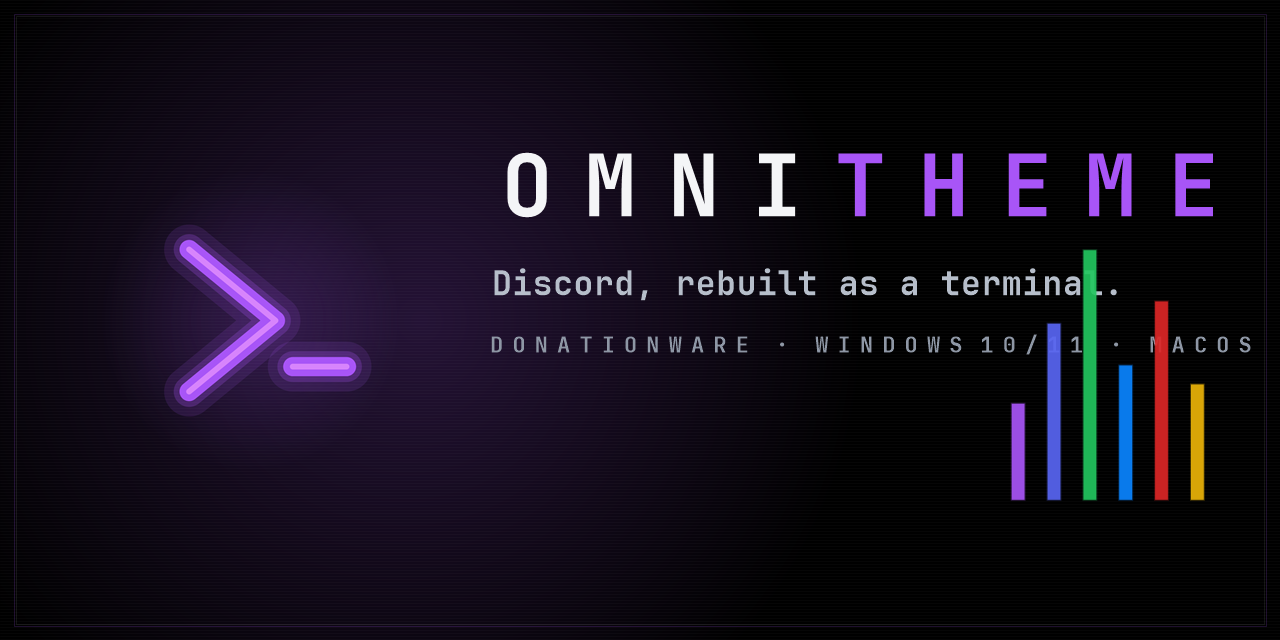
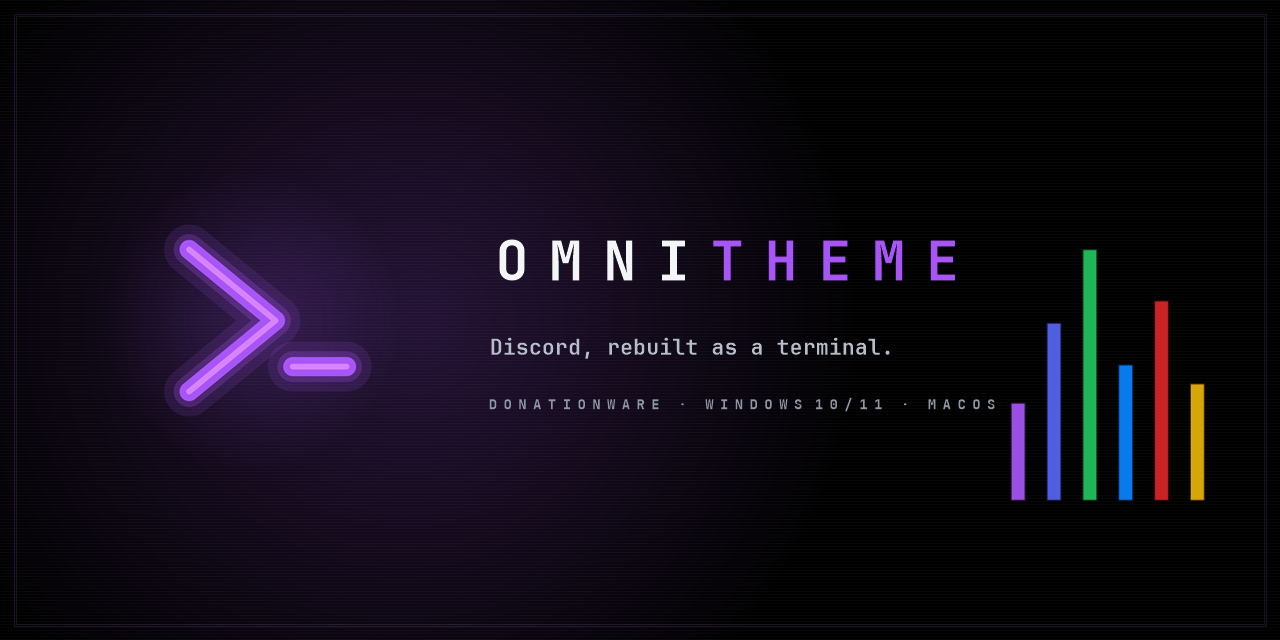
Fix wordmark/tagline spacing and overlap; add badge-style quick-nav
Layout fix: was measuring line gaps off the font-size number instead of
the actual rendered text height, so lines still read as cramped even
after the units fix. Now measures real heights via MeasureString and
centres the whole text block on the banner's vertical centre (matching
the icon). Also found and fixed a second bug this surfaced: at the
1280x640 social-preview aspect ratio, the tagline and micro-badge line
were wide enough to run under the bar chart. Text now measures its own
width and scales down together with the other two sizes if it would
overlap the bars, so the layout stays safe at any aspect ratio instead
of only the one it happened to be tuned against.

Quick-nav: replaced the plain-text links with the badge-button pattern
already live on OmniBlock and OmniScale (shields.io badges, highlighted
primary "Get" chip, style=for-the-badge) for visual consistency across
the org's READMEs.

diff --git a/README.md b/README.md
@@ -19,12 +19,17 @@
   <img alt="License" src="https://img.shields.io/badge/license-Donationware%20EULA-6A5BDB?style=flat-square">
 </p>
 
+<!-- Quick navigation. These are clickable: each chip jumps to a section of this
+     page, or to the document it names. Anchors are GitHub's own slugs for the
+     headings below -- if a heading is renamed, its chip has to be renamed too. -->
 <p align="center">
-  <a href="#how-to-get-it">Get OmniTheme</a> ·
-  <a href="#features">Features</a> ·
-  <a href="#six-colours-one-theme">Variants</a> ·
-  <a href="docs/FAQ.md">FAQ</a> ·
-  <a href="docs/CHANGELOG.md">Changelog</a>
+  <a href="#how-to-get-it"><img alt="Get OmniTheme" src="https://img.shields.io/badge/⬇%20Get%20OmniTheme-8A7BFF?style=for-the-badge"></a>
+  <a href="#features"><img alt="Features" src="https://img.shields.io/badge/Features-2B2545?style=for-the-badge"></a>
+  <a href="#six-colours-one-theme"><img alt="Variants" src="https://img.shields.io/badge/Variants-2B2545?style=for-the-badge"></a>
+  <a href="#requirements"><img alt="Requirements" src="https://img.shields.io/badge/Requirements-2B2545?style=for-the-badge"></a>
+  <a href="docs/INSTALLATION.md"><img alt="Install" src="https://img.shields.io/badge/Install-2B2545?style=for-the-badge"></a>
+  <a href="docs/FAQ.md"><img alt="FAQ" src="https://img.shields.io/badge/FAQ-2B2545?style=for-the-badge"></a>
+  <a href="docs/CHANGELOG.md"><img alt="Changelog" src="https://img.shields.io/badge/Changelog-2B2545?style=for-the-badge"></a>
 </p>
 
 <!-- Real in-client screenshots are pending — see docs/SCREENSHOTS.md. The only captures
